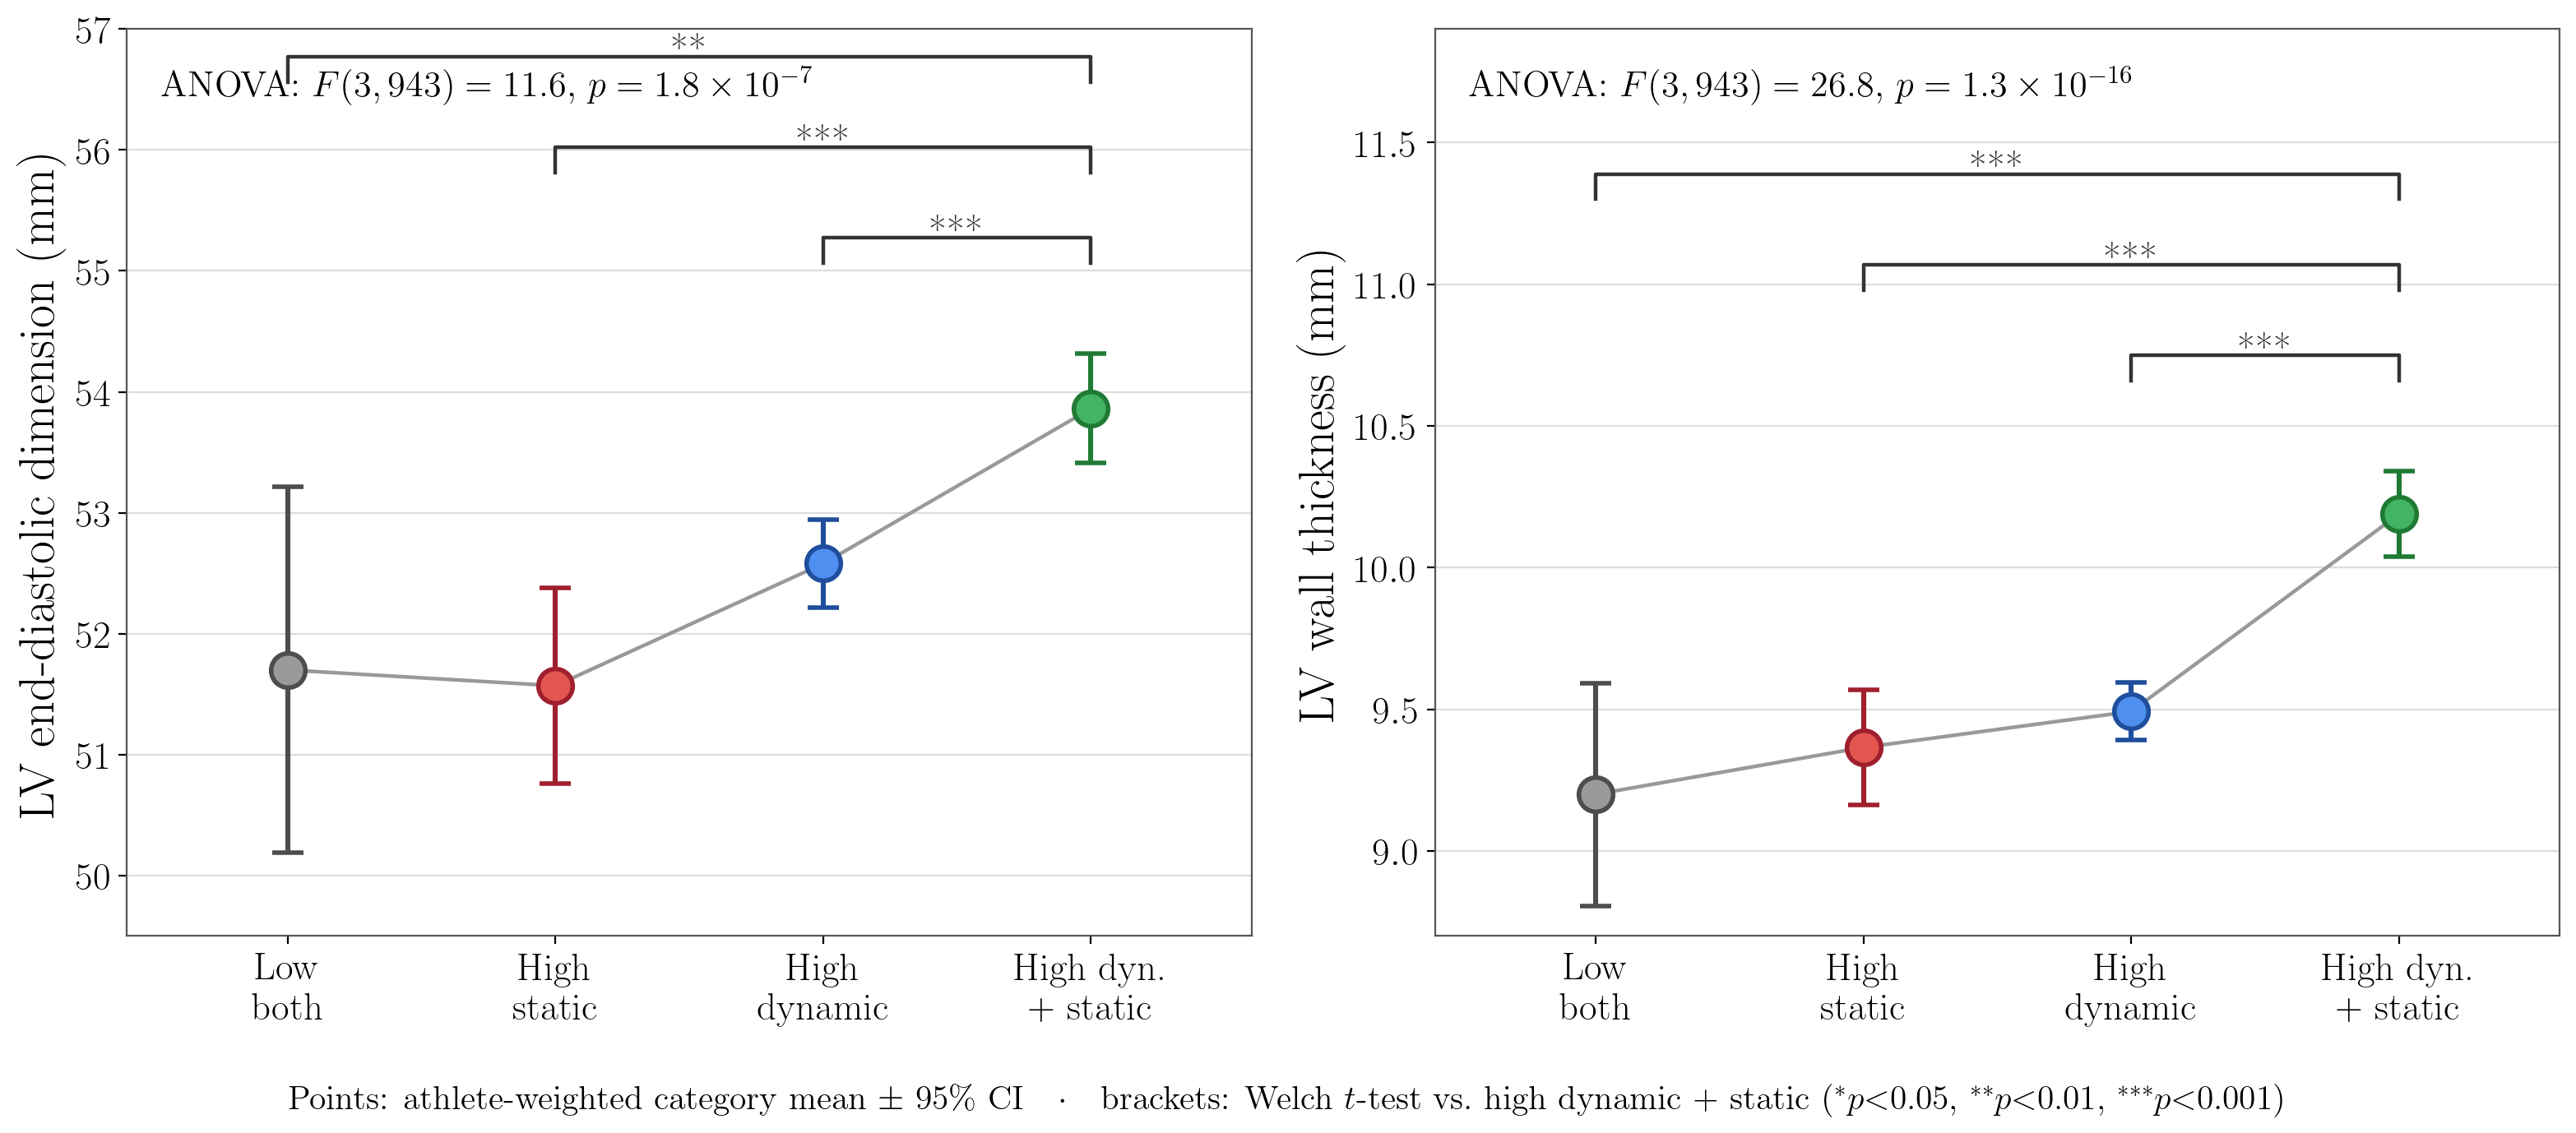
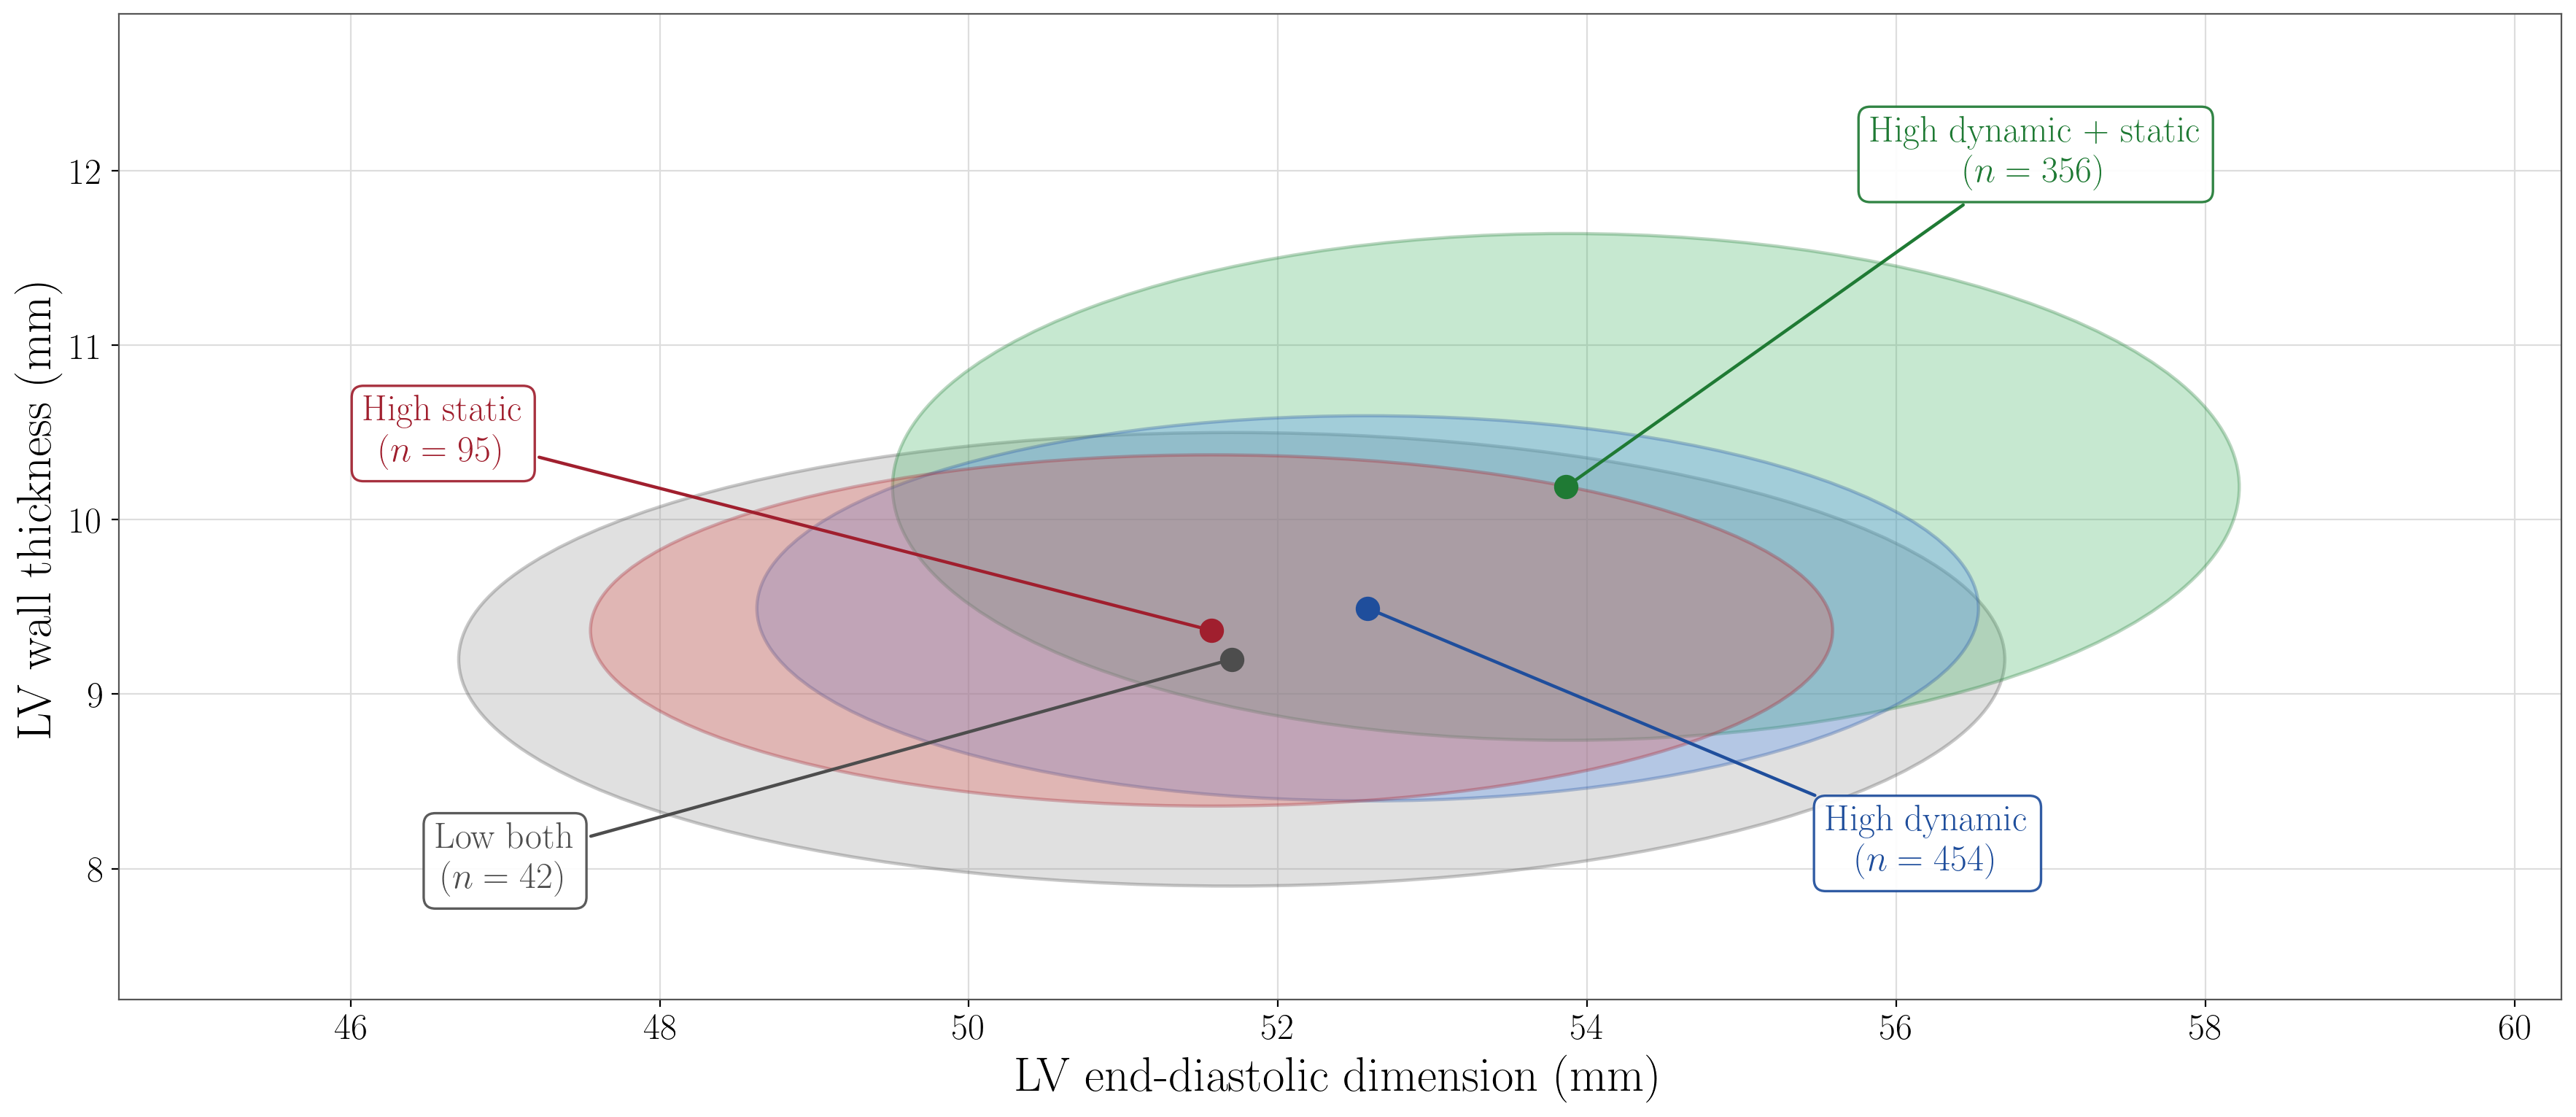
Make trends figure a summary of the per-sport ellipse plot
Replace the two-panel mean+/-CI figure with a single-axes summary on the same
LVEDd vs wall-thickness axes as sport_heart_ellipses.py: one +/-1 SD ellipse
per Mitchell exercise class, labeled by exercise form and athlete count, with
leader lines to each category mean. No bottom caption text; outputs PDF + PNG.

diff --git a/plot_trends.py b/plot_trends.py
@@ -1,19 +1,22 @@
 """
-Publication-ready figure of the trends quantified in analyze_trends.py.
+Summary of sport_heart_ellipses.py: the same LV end-diastolic dimension vs.
+wall-thickness axes, but with the 25 per-sport ellipses collapsed into one
+ellipse per Mitchell exercise class.
 
-Two panels (LV end-diastolic dimension, LV wall thickness) show the athlete-
-weighted category mean +/- 95% CI for each Mitchell exercise class, ordered by
-training load. Significance brackets compare the standout class (high dynamic +
-static) with each of the others (Welch t-test); each panel notes the one-way
-ANOVA result.
+Each ellipse is centered on the athlete-weighted category mean with half-axes
+of +/- 1 SD (pooled across the sports in that class, i.e. the spread of the
+individual athletes) -- exactly the convention used for the per-sport ellipses,
+so this reads as the summary of that plot. Ellipses are labeled by exercise
+form and athlete count.
 """
 
 import numpy as np
 import matplotlib
 matplotlib.use("Agg")
 import matplotlib.pyplot as plt
+from matplotlib.patches import Ellipse
 
-from analyze_trends import DATA, CAT_NAME, pooled, anova, welch, stars
+from analyze_trends import DATA, CAT_NAME, pooled
 
 plt.rcParams.update({
     "text.usetex": True,
@@ -26,96 +29,68 @@ edge_color = {"blue": "#1f4e9c", "red": "#a01f2e",
               "green": "#1f7a34", "gray": "#4d4d4d"}
 fill_color = {"blue": "#4f8ff0", "red": "#e2564f",
               "green": "#43b364", "gray": "#9a9a9a"}
+CATS = ["green", "blue", "red", "gray"]
 
-# Categories ordered by training load (low -> combined endurance+power)
-ORDER = ["gray", "red", "blue", "green"]
-XLABEL = {
-    "gray": "Low\nboth",
-    "red": "High\nstatic",
-    "blue": "High\ndynamic",
-    "green": r"High dyn." + "\n" + r"$+$ static",
+# Where to place each category label (data coords) + its leader line to the mean
+LABEL_POS = {
+    "green": (56.9, 12.1),
+    "blue": (56.2, 8.15),
+    "red": (46.6, 10.5),
+    "gray": (47.0, 8.05),
 }
 
 
-def category_stats(idx_mean, idx_sd):
-    """Return {cat: (N, mean, sd, ci)} for one measure."""
-    out = {}
-    for c in ORDER:
-        rows = [(r[2], r[idx_mean], r[idx_sd]) for r in DATA if r[1] == c]
-        N, m, sd, ss = pooled(rows, idx_mean, idx_sd)
-        out[c] = (N, m, sd, 1.96 * sd / np.sqrt(N))
-    return out
+def cat_stats(cat):
+    rows_x = [(r[2], r[3], r[4]) for r in DATA if r[1] == cat]
+    rows_y = [(r[2], r[5], r[6]) for r in DATA if r[1] == cat]
+    N, mx, sdx, _ = pooled(rows_x, 3, 4)
+    _, my, sdy, _ = pooled(rows_y, 5, 6)
+    return int(N), mx, sdx, my, sdy
 
 
-def bracket(ax, x1, x2, y, h, text):
-    ax.plot([x1, x1, x2, x2], [y, y + h, y + h, y],
-            lw=1.6, color="#333333", zorder=5)
-    ax.text((x1 + x2) / 2.0, y + h, text, ha="center", va="bottom",
-            fontsize=17, color="#333333")
+stats = {c: cat_stats(c) for c in CATS}
 
+fig, ax = plt.subplots(figsize=(18, 8))
 
-def panel(ax, idx_mean, idx_sd, ylabel, ylim, bstep):
-    st = category_stats(idx_mean, idx_sd)
-    xs = np.arange(len(ORDER))
-    means = [st[c][1] for c in ORDER]
-    cis = [st[c][3] for c in ORDER]
+# Draw larger ellipses first so smaller ones stay visible on top
+for c in sorted(CATS, key=lambda c: stats[c][2] * stats[c][4], reverse=True):
+    N, mx, sdx, my, sdy = stats[c]
+    ax.add_patch(Ellipse(
+        (mx, my), width=2 * sdx, height=2 * sdy,
+        facecolor=fill_color[c], edgecolor=edge_color[c],
+        alpha=0.30, linewidth=1.6, zorder=2,
+    ))
+    ax.plot(mx, my, marker="o", markersize=11, color=edge_color[c], zorder=6)
 
-    # Trend line through the ordered means, then colored points on top
-    ax.plot(xs, means, color="#999999", lw=1.6, zorder=2)
-    for x, c in zip(xs, ORDER):
-        N, m, sd, ci = st[c]
-        ax.errorbar(x, m, yerr=ci, fmt="o", markersize=15,
-                    markerfacecolor=fill_color[c], markeredgecolor=edge_color[c],
-                    markeredgewidth=2.0, ecolor=edge_color[c], elinewidth=2.2,
-                    capsize=7, capthick=2.2, zorder=4)
+# Labels (exercise form + athlete count) with a leader line to the mean
+for c in CATS:
+    N, mx, my = stats[c][0], stats[c][1], stats[c][3]
+    name = CAT_NAME[c].replace("+", r"$+$")
+    ax.annotate(
+        rf"{name}" + "\n" + rf"($n={N}$)",
+        xy=(mx, my), xytext=LABEL_POS[c], textcoords="data",
+        ha="center", va="center", fontsize=18, color=edge_color[c], zorder=7,
+        bbox=dict(boxstyle="round,pad=0.32", facecolor="white",
+                  edgecolor=edge_color[c], linewidth=1.2, alpha=0.92),
+        arrowprops=dict(arrowstyle="-", color=edge_color[c], linewidth=1.6,
+                        shrinkA=2, shrinkB=6),
+    )
 
-    ax.set_xticks(xs)
-    ax.set_xticklabels([XLABEL[c] for c in ORDER], fontsize=17)
-    ax.set_xlim(-0.6, len(ORDER) - 0.4)
-    ax.set_ylim(*ylim)
-    ax.set_ylabel(ylabel, fontsize=22)
-    ax.tick_params(axis="y", labelsize=17)
-    ax.grid(True, axis="y", color="#dddddd", linewidth=0.8, zorder=0)
-    ax.set_axisbelow(True)
+# Same axes as sport_heart_ellipses.py (tight around the per-sport ellipses)
+x_lo = min(r[3] - r[4] for r in DATA) - 0.5
+x_hi = max(r[3] + r[4] for r in DATA) + 0.5
+y_lo = min(r[5] - r[6] for r in DATA) - 0.25
+y_hi = max(r[5] + r[6] for r in DATA) + 0.3
+ax.set_xlim(x_lo, x_hi)
+ax.set_ylim(y_lo, y_hi)
 
-    # ANOVA note
-    groups = [pooled([(r[2], r[idx_mean], r[idx_sd])
-                      for r in DATA if r[1] == c], idx_mean, idx_sd)
-              for c in ORDER]
-    F, dfb, dfw, p = anova(groups)
-    ax.text(0.03, 0.96,
-            rf"ANOVA: $F({dfb},{dfw})={F:.1f}$, $p={_sci(p)}$",
-            transform=ax.transAxes, ha="left", va="top", fontsize=16)
+ax.set_xlabel(r"LV end-diastolic dimension (mm)", fontsize=24)
+ax.set_ylabel(r"LV wall thickness (mm)", fontsize=24)
+ax.tick_params(axis="both", labelsize=18)
+ax.grid(True, color="#dddddd", linewidth=0.8, zorder=0)
+ax.set_axisbelow(True)
 
-    # Significance brackets: green (rightmost, index 3) vs each other class
-    gi = ORDER.index("green")
-    top = max(m + c for m, c in zip(means, cis))
-    y = top + bstep
-    for other in ["blue", "red", "gray"]:
-        oi = ORDER.index(other)
-        _, _, p2, _ = welch(st["green"][:3], st[other][:3])
-        bracket(ax, oi, gi, y, bstep * 0.28, stars(p2))
-        y += bstep
-
-
-def _sci(p):
-    """LaTeX scientific notation like 1.3\\times10^{-16}."""
-    exp = int(np.floor(np.log10(p)))
-    mant = p / 10 ** exp
-    return rf"{mant:.1f}\times10^{{{exp}}}"
-
-
-fig, axes = plt.subplots(1, 2, figsize=(16, 7))
-panel(axes[0], 3, 4, r"LV end-diastolic dimension (mm)", (49.5, 57.0), 0.75)
-panel(axes[1], 5, 6, r"LV wall thickness (mm)", (8.7, 11.9), 0.32)
-
-fig.text(0.5, 0.005,
-         r"Points: athlete-weighted category mean $\pm$ 95\% CI\quad"
-         r"$\cdot$\quad brackets: Welch $t$-test vs.\ high dynamic $+$ static "
-         r"($^{*}p{<}0.05$, $^{**}p{<}0.01$, $^{***}p{<}0.001$)",
-         ha="center", va="bottom", fontsize=15)
-
-fig.tight_layout(rect=(0, 0.045, 1, 1))
+fig.tight_layout()
 fig.savefig("trends_by_classification.pdf", bbox_inches="tight")
 fig.savefig("trends_by_classification.png", dpi=200, bbox_inches="tight")
 print("Saved trends_by_classification.pdf and trends_by_classification.png")

diff --git a/README.md b/README.md
@@ -50,8 +50,10 @@ LVEDd `F(3,943) = 11.6, p ≈ 2e-7`; wall thickness `F(3,943) = 26.8, p ≈ 1e-1
 
 ![Trends by Mitchell classification](trends_by_classification.png)
 
-Category mean ± 95% CI, ordered by training load; brackets are Welch *t*-tests
-against the high-dynamic + static class (`python plot_trends.py`).
+Summary of the per-sport figure on the same axes: one **±1 SD ellipse per
+exercise class** (athlete-weighted mean, pooled SD), labeled by exercise form
+and athlete count (`python plot_trends.py`). The high-dynamic + static class
+sits up and to the right — larger cavity *and* thicker wall.
 
 **Trends:**
 
@@ -80,6 +82,6 @@ than individual-level data; and associations are observational, not causal.
 |------|---------|
 | [`sport_heart_ellipses.py`](sport_heart_ellipses.py) | Builds the ellipse figure (PDF + PNG) |
 | [`analyze_trends.py`](analyze_trends.py) | Category statistics, ANOVA, and pairwise tests |
-| [`plot_trends.py`](plot_trends.py) | Two-panel trends figure (mean ± 95% CI + significance) |
-| `sport_heart_ellipses.pdf` / `.png` | Generated ellipse figure |
-| `trends_by_classification.pdf` / `.png` | Generated trends figure |
+| [`plot_trends.py`](plot_trends.py) | Summary figure: one ±1 SD ellipse per exercise class, same axes |
+| `sport_heart_ellipses.pdf` / `.png` | Generated per-sport ellipse figure |
+| `trends_by_classification.pdf` / `.png` | Generated summary figure |